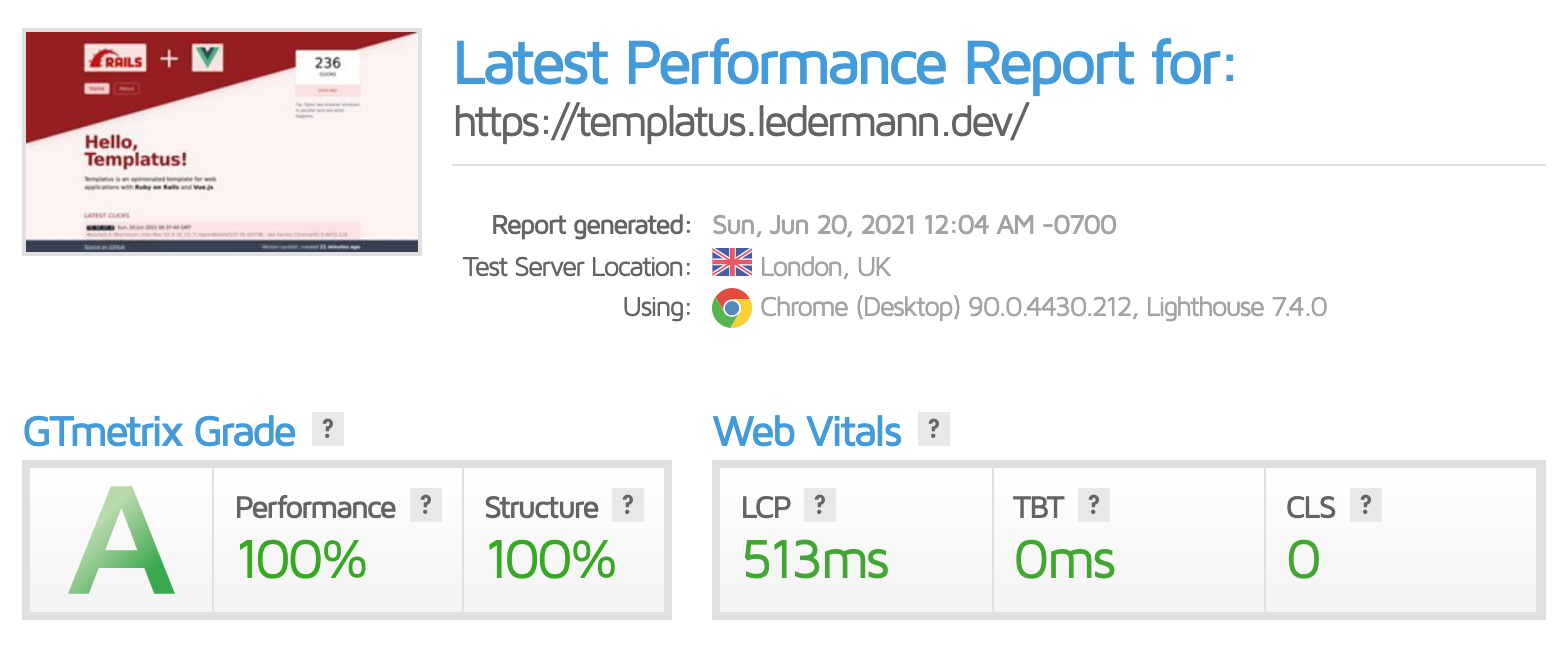
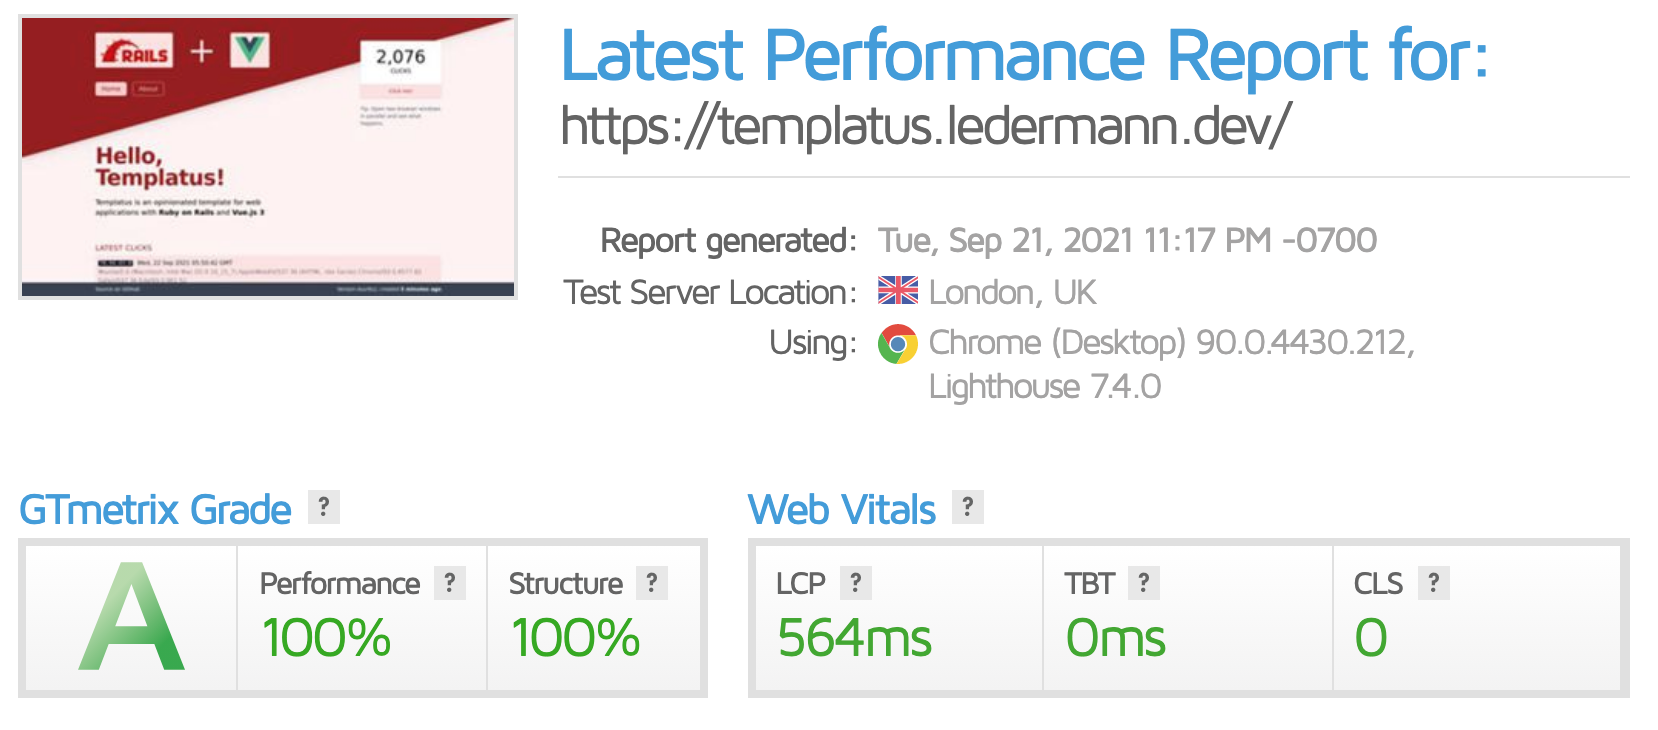
Readme: Update GTmetrix report

diff --git a/README.md b/README.md
@@ -91,7 +91,7 @@ Why is there a failing test? It's about missing [Subresource Integrity](https://
 
 ### GTmetrix
 
-[![GTmetrix](docs/GTmetrix.png)](https://gtmetrix.com/reports/templatus.ledermann.dev/PR4PpigG/)
+[![GTmetrix](docs/GTmetrix.png)](https://gtmetrix.com/reports/templatus.ledermann.dev/BfWVNIIb/)
 
 ### Check-your-website
 
